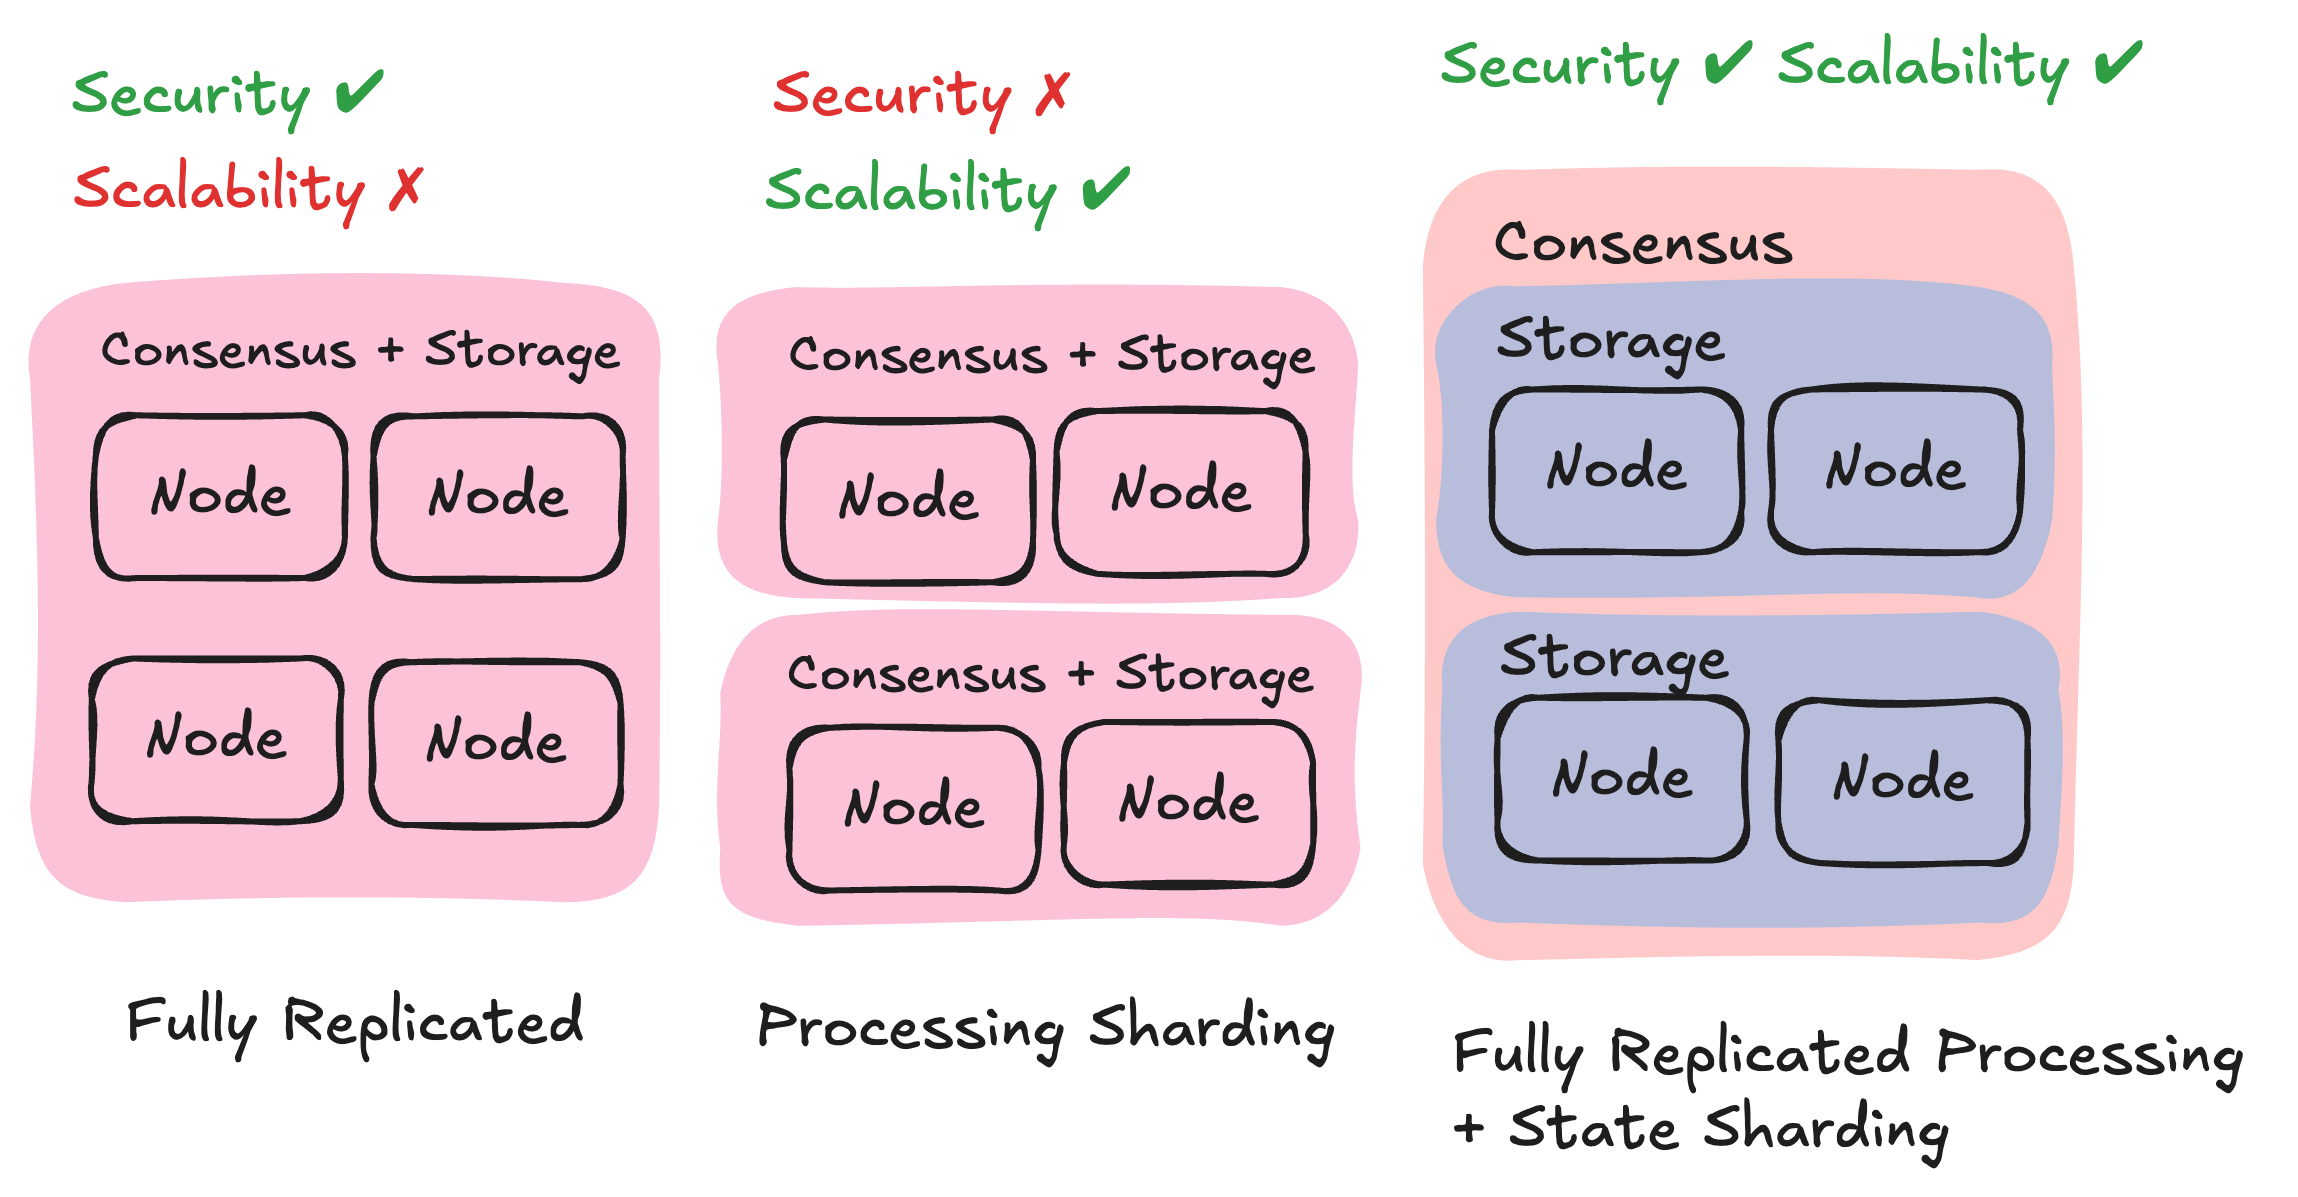
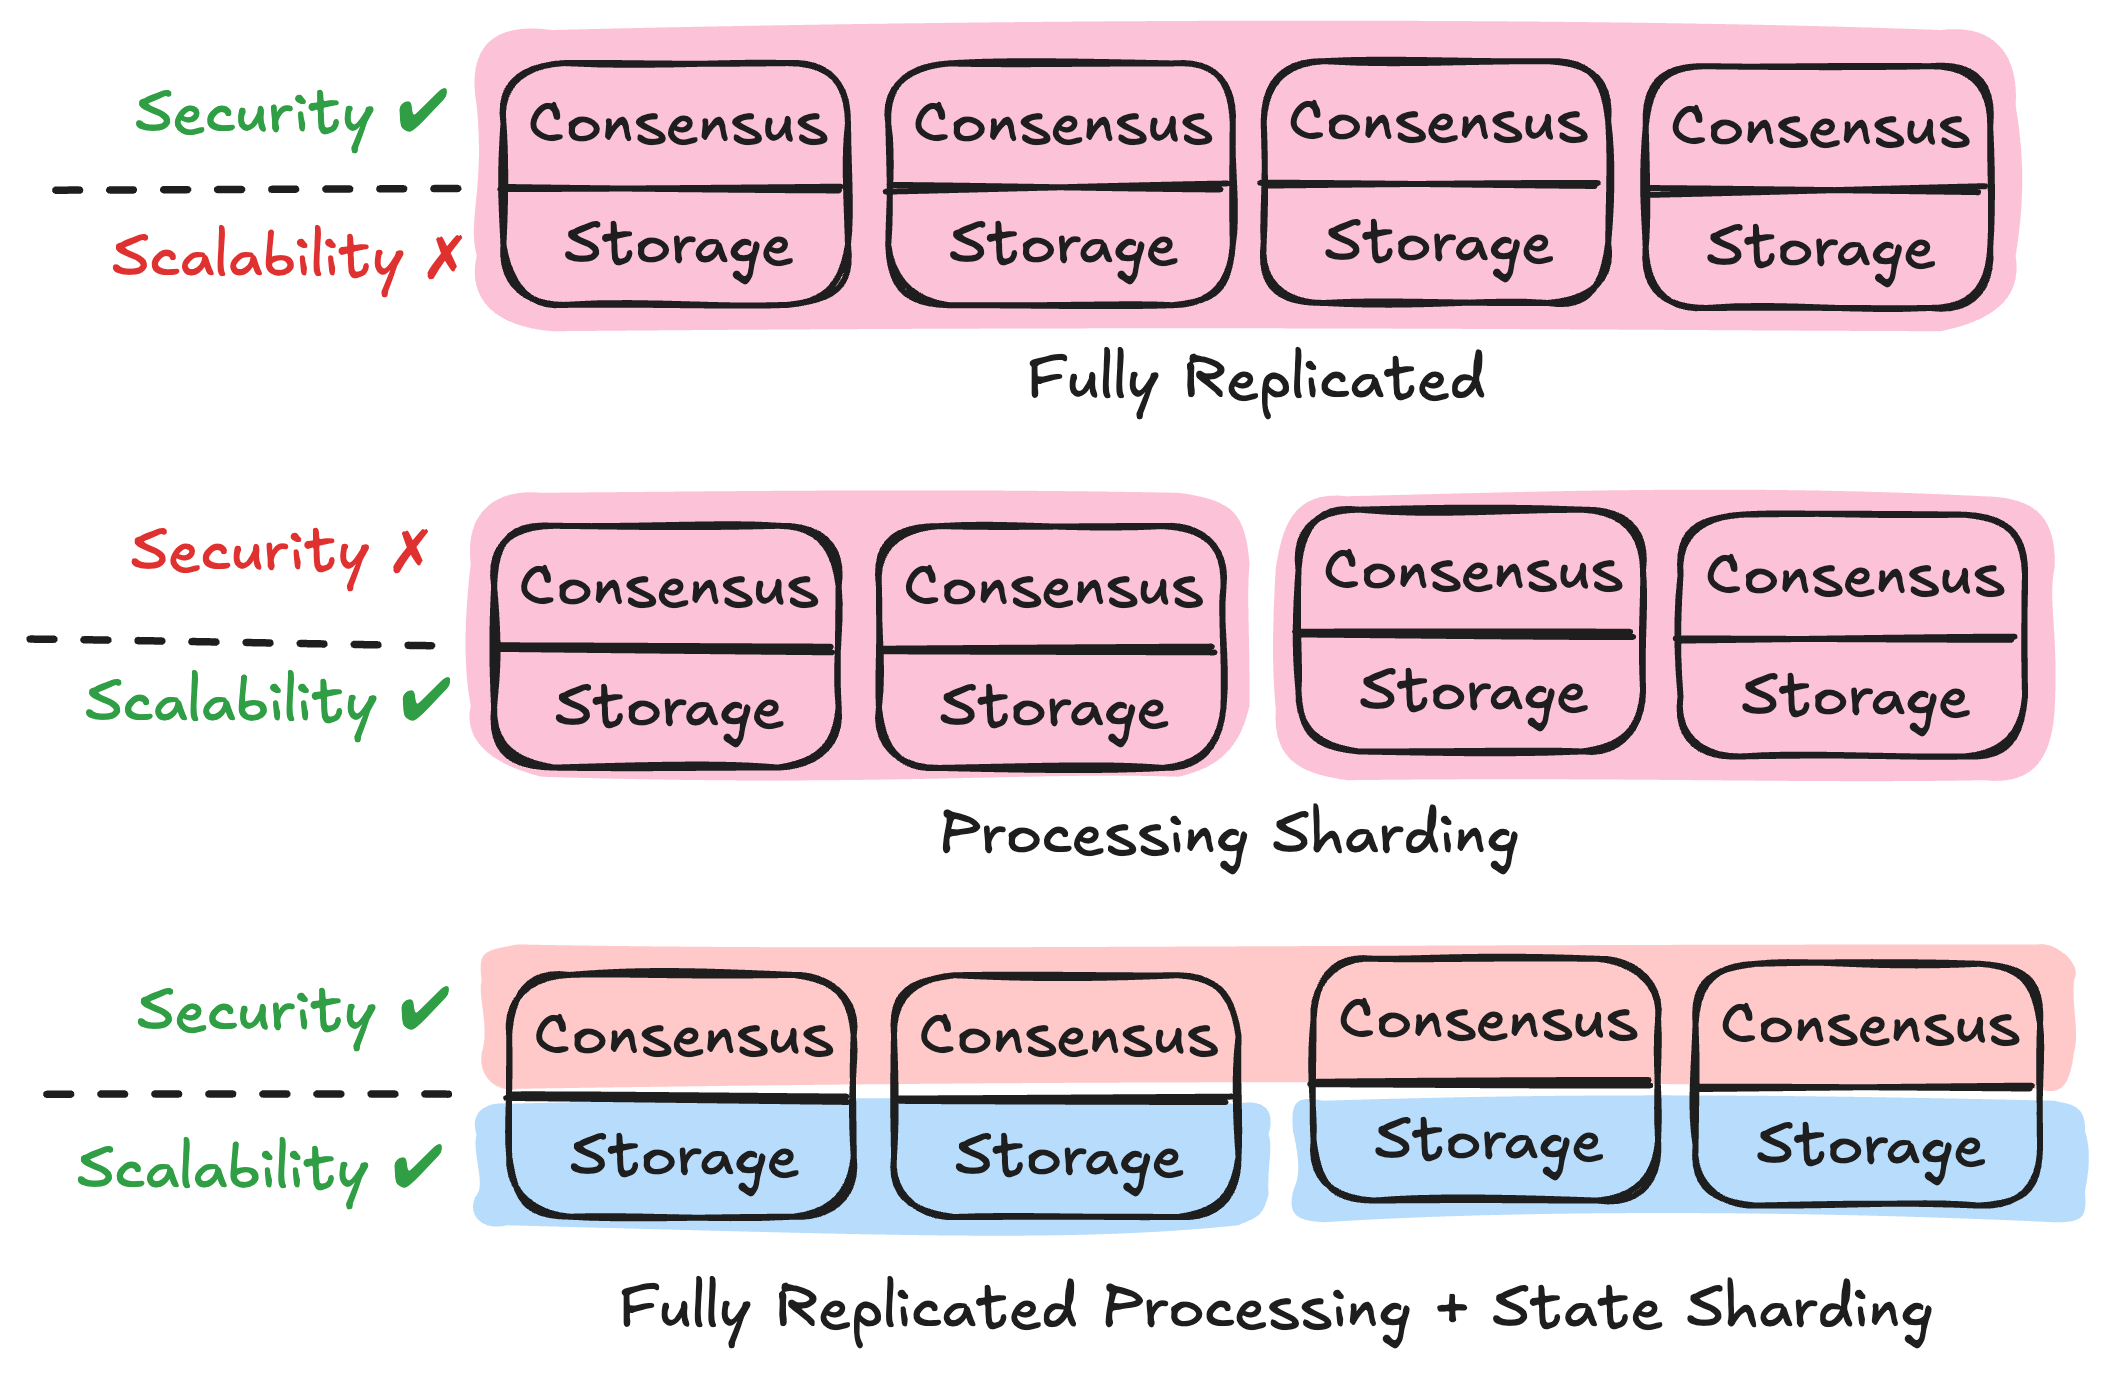
intro: Update fig

diff --git a/sections/introduction.tex b/sections/introduction.tex
@@ -37,8 +37,9 @@ Some works degrade to tolerate only $\frac{1}{4}$ faulty nodes, some resorts to 
 % \xxx{Distinguish performance and storage scalability?}
 
 \begin{figure}
-    \includegraphics[width=\linewidth]{figures/approach-compare}
-    \caption{Comparison of BFT scaling approaches.}
+    \includegraphics[width=0.9\linewidth]{figures/approach-compare}
+    \caption{Comparison of BFT scaling approaches.
+    Each rectangle represents a replicated node.}
     \label{fig:approach-compare}
 \end{figure}
 
